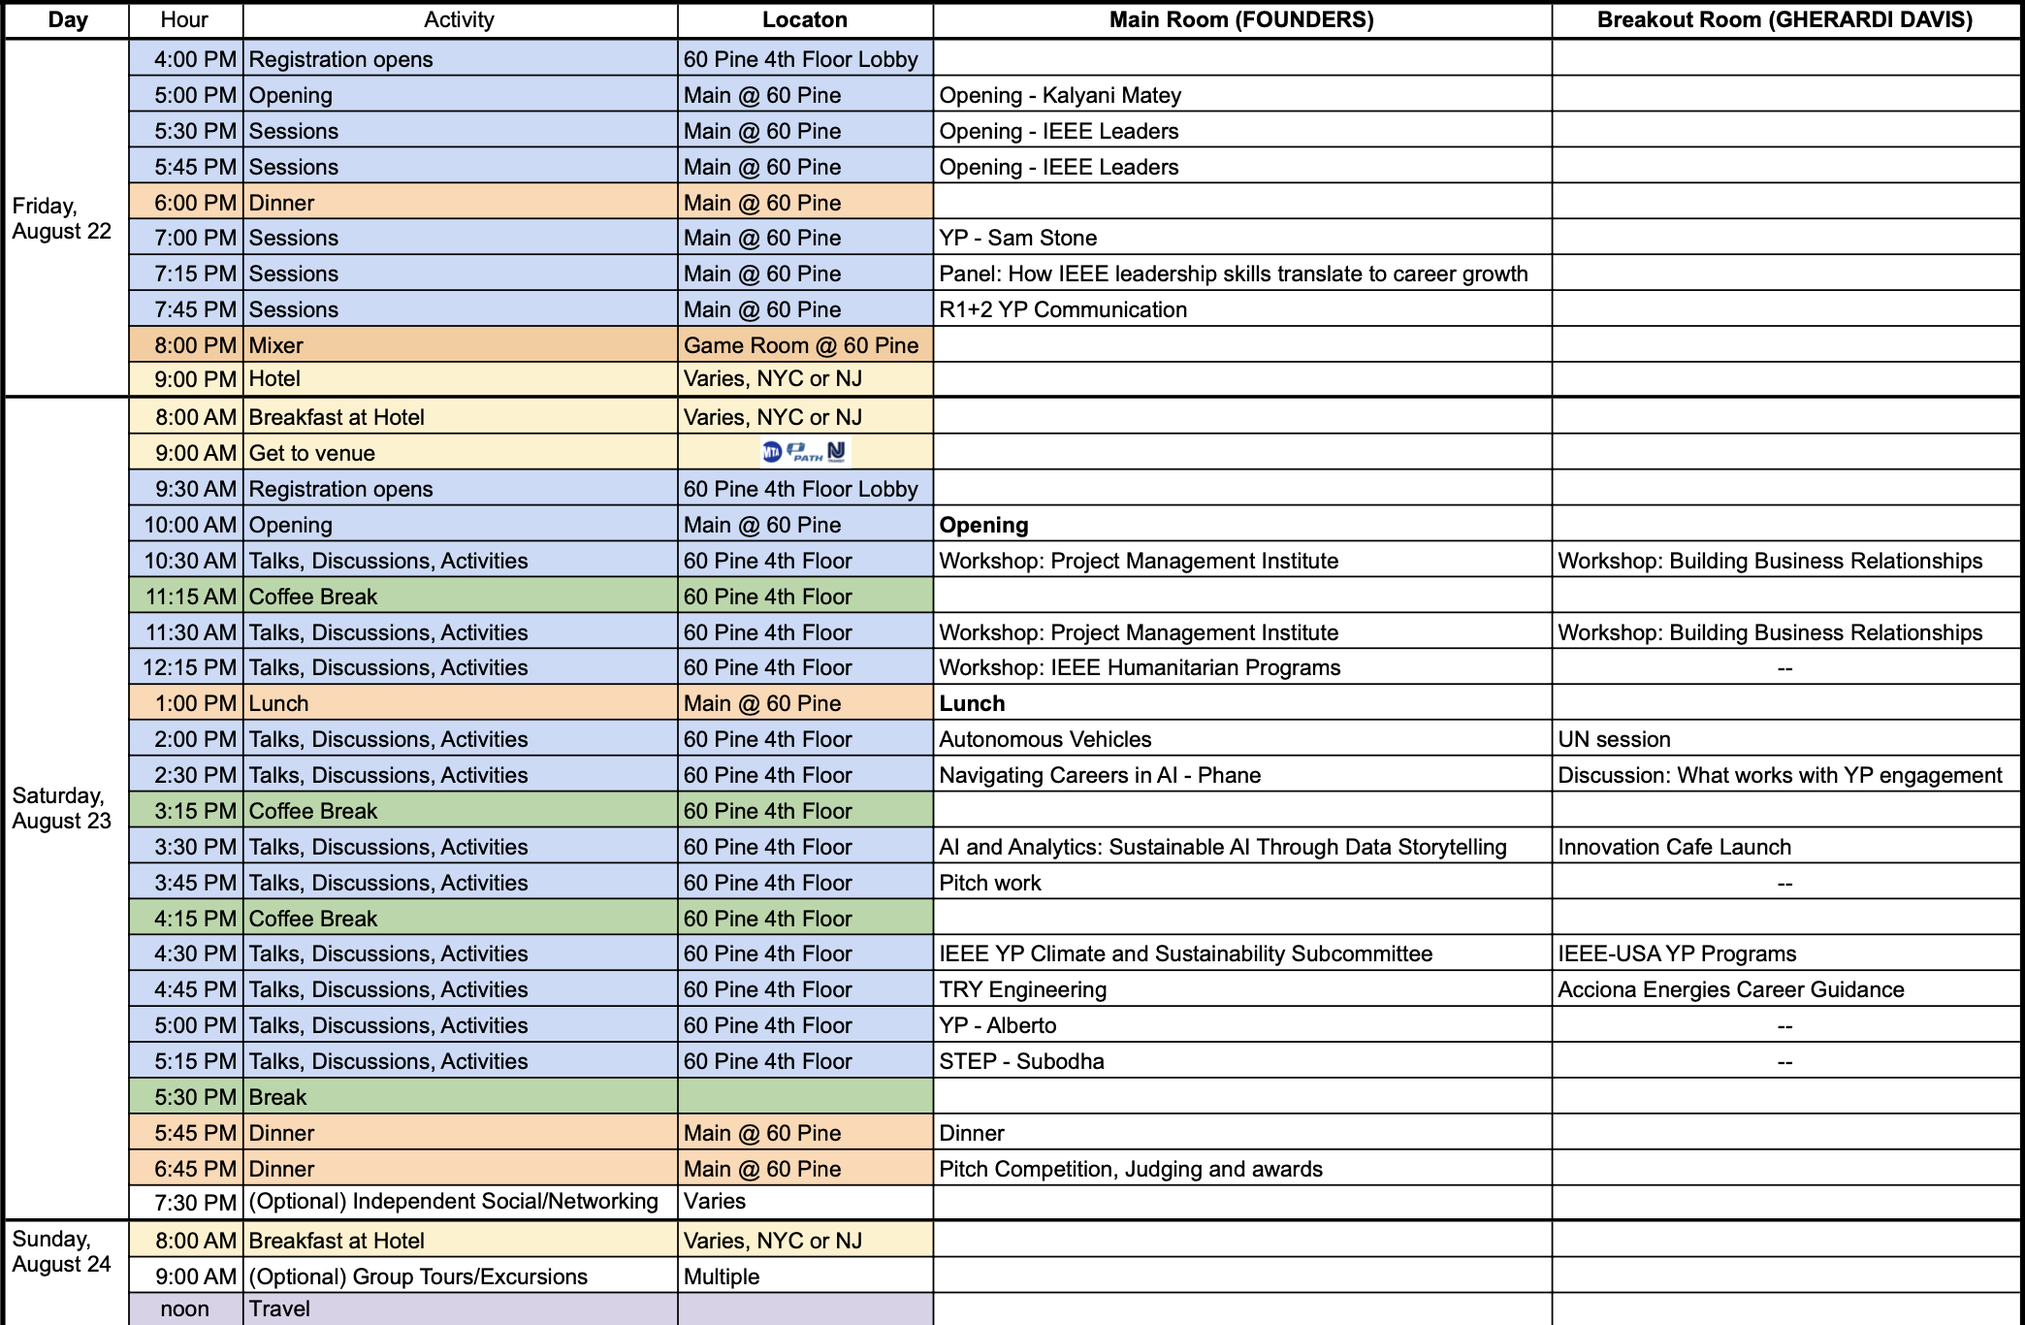
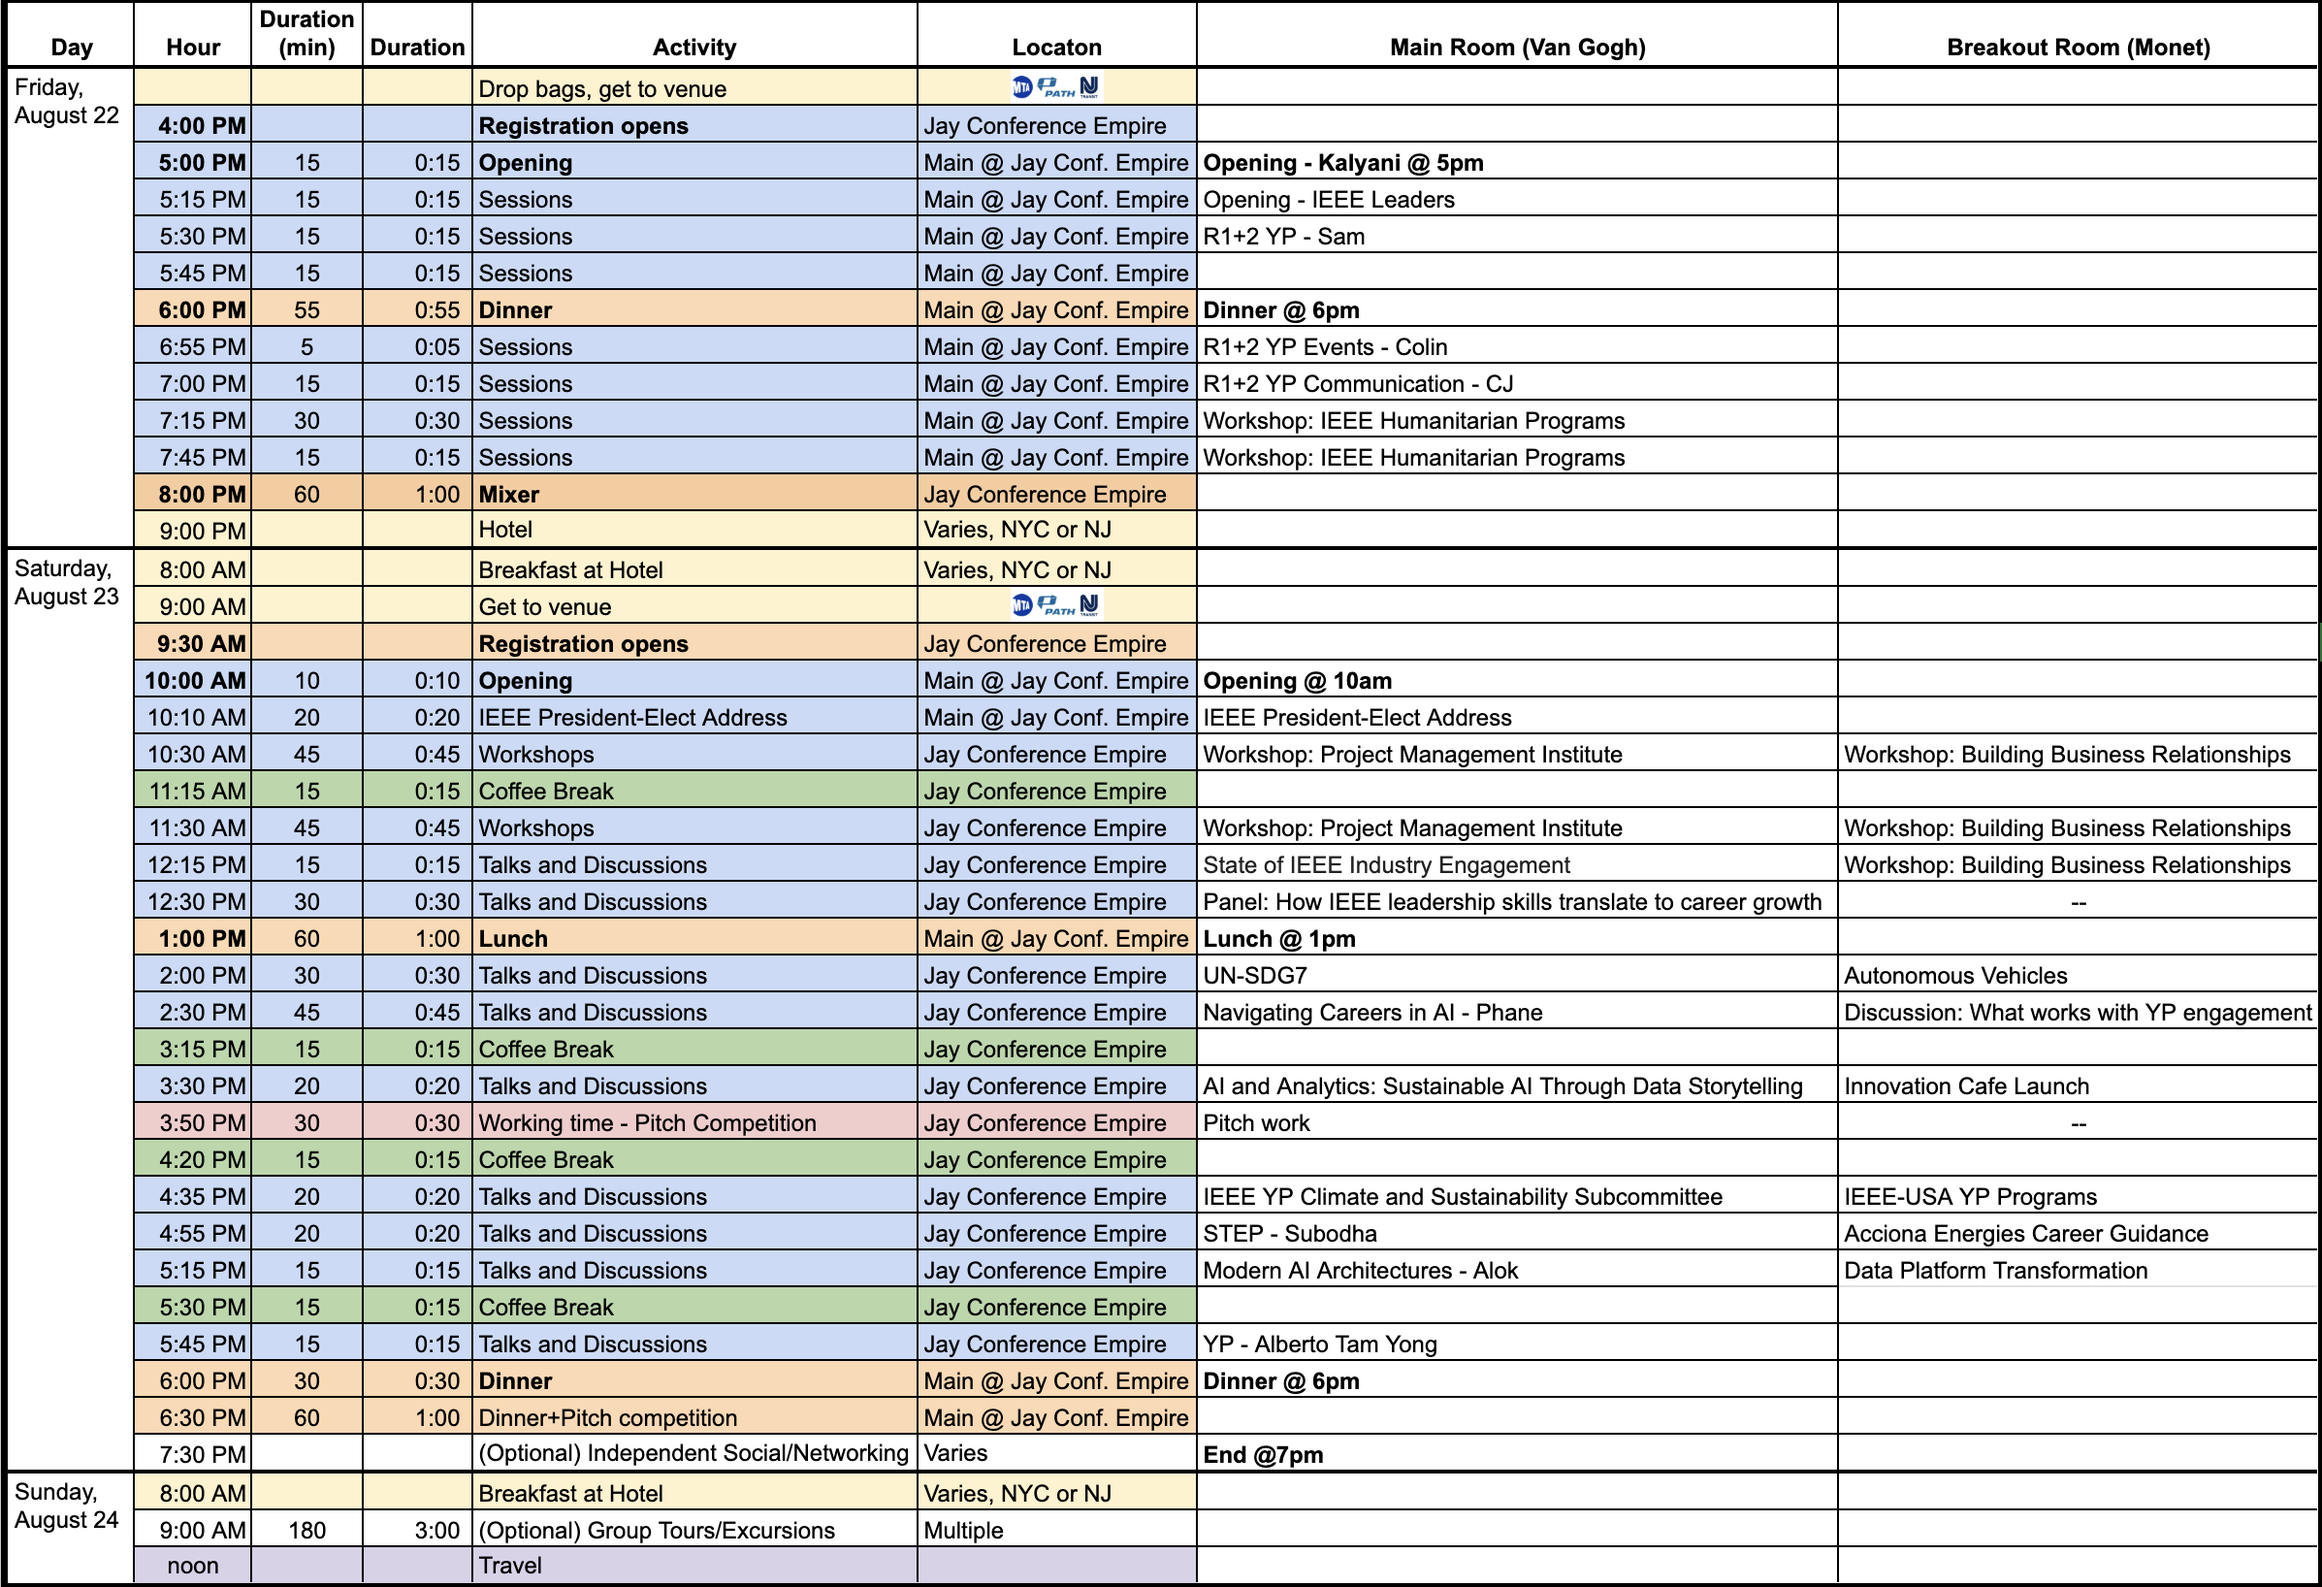
update schedule

diff --git a/schedule.html b/schedule.html
@@ -56,315 +56,15 @@
     <h2>(Optional) Sunday Tours</h2>
     Details of the optional Sunday tours will be announced at the event. 
   <h2>Schedule</h2>
-    <div class="table-scroll">
-    <table role="table" aria-label="Summit schedule">
-      <colgroup>
-        <col /><col /><col /><col /><col /><col />
-      </colgroup>
-      <thead>
-        <tr>
-          <th scope="col">Day</th>
-          <th scope="col">Hour</th>
-          <th scope="col">Duration</th>
-          <th scope="col">Activity</th>
-          <th scope="col">Main Room</th>
-          <th scope="col">Breakout Room</th>
-        </tr>
-      </thead>
-      <tbody>
-  
-        <!-- ===== Friday, August 22 ===== -->
-        <tr>
-          <th scope="rowgroup" class="day" rowspan="11">Friday,<br>August 22</th>
-          <td><span class="time"></span></td>
-          <td></td>
-          <td>Drop bags, get to venue</td>
-          <td></td><td></td>
-        </tr>
-  
-        <tr class="section">
-          <td><span class="time">4:00 PM</span></td>
-          <td><span class="dur">—</span></td>
-          <td>Registration opens</td>
-          <td></td><td></td>
-        </tr>
-  
-        <tr class="section">
-          <td><span class="time">5:00 PM</span></td>
-          <td><span class="dur">0:30</span></td>
-          <td class="open">Opening</td>
-          <td>Opening – Kalyani</td>
-          <td></td>
-        </tr>
-  
-        <tr class="talks">
-          <td><span class="time">5:30 PM</span></td>
-          <td><span class="dur">0:15</span></td>
-          <td>Sessions</td>
-          <td>Opening – IEEE Leaders</td>
-          <td></td>
-        </tr>
-  
-        <tr class="talks">
-          <td><span class="time">5:45 PM</span></td>
-          <td><span class="dur">0:15</span></td>
-          <td>Sessions</td>
-          <td>Opening – IEEE Leaders</td>
-          <td></td>
-        </tr>
-  
-        <tr class="dinner">
-          <td><span class="time">6:00 PM</span></td>
-          <td><span class="dur">1:00</span></td>
-          <td>Gala Dinner</td>
-          <td>Gala Dinner</td>
-          <td></td>
-        </tr>
-  
-        <tr class="talks">
-          <td><span class="time">7:00 PM</span></td>
-          <td><span class="dur">0:15</span></td>
-          <td>Sessions</td>
-          <td>YP – Sam</td>
-          <td></td>
-        </tr>
-  
-        <tr class="talks">
-          <td><span class="time">7:15 PM</span></td>
-          <td><span class="dur">0:30</span></td>
-          <td>Sessions</td>
-          <td>Panel: How IEEE leadership skills translate to career growth</td>
-          <td></td>
-        </tr>
-  
-        <tr class="talks">
-          <td><span class="time">7:45 PM</span></td>
-          <td><span class="dur">0:15</span></td>
-          <td>Sessions</td>
-          <td>R1+2 YP Communication</td>
-          <td></td>
-        </tr>
-  
-        <tr class="mixer">
-          <td><span class="time">8:00 PM</span></td>
-          <td><span class="dur">1:00</span></td>
-          <td>Mixer</td>
-          <td></td><td></td>
-        </tr>
-  
-        <tr class="hotel">
-          <td><span class="time">9:00 PM</span></td>
-          <td></td>
-          <td>Hotel</td>
-          <td></td><td></td>
-        </tr>
-  
-        <!-- ===== Saturday, August 23 ===== -->
-        <tr>
-          <th scope="rowgroup" class="day" rowspan="24">Saturday,<br>August 23</th>
-          <td><span class="time">8:00 AM</span></td>
-          <td></td>
-          <td class="breakfast">Breakfast at Hotel</td>
-          <td></td><td></td>
-        </tr>
-  
-        <tr>
-          <td><span class="time">9:00 AM</span></td>
-          <td></td>
-          <td>Get to venue</td>
-          <td></td><td></td>
-        </tr>
-  
-        <tr class="section">
-          <td><span class="time">9:30 AM</span></td>
-          <td></td>
-          <td>Registration opens</td>
-          <td></td><td></td>
-        </tr>
-  
-        <tr class="section">
-          <td><span class="time">10:00 AM</span></td>
-          <td><span class="dur">0:10</span></td>
-          <td class="open">Opening</td>
-          <td class="">Opening</td>
-          <td></td>
-        </tr>
-
-        <tr class="talks">
-          <td><span class="time">10:10 AM</span></td>
-          <td><span class="dur">0:20</span></td>
-          <td>Talks, Discussions, Activities</td>
-          <td>IEEE President-Elect Address</td>
-          <td></td>
-        </tr>
-  
-        <tr class="talks">
-          <td><span class="time">10:30 AM</span></td>
-          <td><span class="dur">0:45</span></td>
-          <td>Talks, Discussions, Activities</td>
-          <td>Workshop: Project Management Institute</td>
-          <td>Workshop: Building Business Relationships</td>
-        </tr>
-  
-        <tr class="break">
-          <td><span class="time">11:15 AM</span></td>
-          <td><span class="dur">0:15</span></td>
-          <td>Coffee Break</td>
-          <td></td><td></td>
-        </tr>
-  
-        <tr class="talks">
-          <td><span class="time">11:30 AM</span></td>
-          <td><span class="dur">0:45</span></td>
-          <td>Talks, Discussions, Activities</td>
-          <td>Workshop: Project Management Institute</td>
-          <td>Workshop: Building Business Relationships</td>
-        </tr>
-  
-        <tr class="talks">
-          <td><span class="time">12:15 PM</span></td>
-          <td><span class="dur">0:45</span></td>
-          <td>Talks, Discussions, Activities</td>
-          <td>Workshop: IEEE Humanitarian Programs</td>
-          <td>—</td>
-        </tr>
-  
-        <tr class="lunch">
-          <td><span class="time">1:00 PM</span></td>
-          <td><span class="dur">1:00</span></td>
-          <td>Lunch</td>
-          <td>Lunch</td>
-          <td></td>
-        </tr>
-  
-        <tr class="talks">
-          <td><span class="time">2:00 PM</span></td>
-          <td><span class="dur">0:30</span></td>
-          <td>Talks, Discussions, Activities</td>
-          <td>Autonomous Vehicles</td>
-          <td>UN session</td>
-        </tr>
-  
-        <tr class="talks">
-          <td><span class="time">2:30 PM</span></td>
-          <td><span class="dur">0:45</span></td>
-          <td>Talks, Discussions, Activities</td>
-          <td>Navigating Careers in AI – Phane</td>
-          <td>Discussion: What works with YP engagement</td>
-        </tr>
-  
-        <tr class="break">
-          <td><span class="time">3:15 PM</span></td>
-          <td><span class="dur">0:15</span></td>
-          <td>Coffee Break</td>
-          <td></td><td></td>
-        </tr>
-  
-        <tr class="talks">
-          <td><span class="time">3:30 PM</span></td>
-          <td><span class="dur">0:15</span></td>
-          <td>Talks, Discussions, Activities</td>
-          <td>AI and Analytics: Sustainable AI Through Data Storytelling</td>
-          <td>Innovation Cafe Launch</td>
-        </tr>
-  
-        <tr class="talks">
-          <td><span class="time">3:45 PM</span></td>
-          <td><span class="dur">0:30</span></td>
-          <td>Talks, Discussions, Activities</td>
-          <td>Pitch work</td>
-          <td>—</td>
-        </tr>
-  
-        <tr class="break">
-          <td><span class="time">4:15 PM</span></td>
-          <td><span class="dur">0:15</span></td>
-          <td>Coffee Break</td>
-          <td></td><td></td>
-        </tr>
-  
-        <tr class="talks">
-          <td><span class="time">4:30 PM</span></td>
-          <td><span class="dur">0:15</span></td>
-          <td>Talks, Discussions, Activities</td>
-          <td>IEEE YP Climate and Sustainability Subcommittee</td>
-          <td>IEEE-USA YP Programs</td>
-        </tr>
-  
-        <tr class="talks">
-          <td><span class="time">4:45 PM</span></td>
-          <td><span class="dur">0:15</span></td>
-          <td>Talks, Discussions, Activities</td>
-          <td>TRY Engineering</td>
-          <td>Acciona Energies Career Guidance</td>
-        </tr>
-  
-        <tr class="talks">
-          <td><span class="time">5:00 PM</span></td>
-          <td><span class="dur">0:15</span></td>
-          <td>Talks, Discussions, Activities</td>
-          <td>YP – Alberto</td>
-          <td>State of IEEE Industry Engagement</td>
-        </tr>
-  
-        <tr class="talks">
-          <td><span class="time">5:15 PM</span></td>
-          <td><span class="dur">0:15</span></td>
-          <td>Talks, Discussions, Activities</td>
-          <td>STEP – Subodha</td>
-          <td>—</td>
-        </tr>
-  
-        <tr class="break">
-          <td><span class="time">5:30 PM</span></td>
-          <td><span class="dur">0:15</span></td>
-          <td>Break</td>
-          <td></td><td></td>
-        </tr>
-  
-        <tr class="dinner">
-          <td><span class="time">5:45 PM</span></td>
-          <td><span class="dur">1:00</span></td>
-          <td>Dinner</td>
-          <td>Dinner</td>
-          <td></td>
-        </tr>
-  
-        <tr class="talks">
-          <td><span class="time">6:45 PM</span></td>
-          <td><span class="dur">0:45</span></td>
-          <td>Dinner</td>
-          <td>Pitch Competition, Judging and awards</td>
-          <td></td>
-        </tr>
-
-        <tr class="optional">
-            <td><span class="time">7:30 PM</span></td>
-            <td><span class="dur"> - </span></td>
-            <td>(Optional) Independent Social/Networking</td>
-            <td></td><td></td>
-          </tr>
-  
-        <!-- ===== Sunday, August 24 ===== -->
-        <tr>
-          <th scope="rowgroup" class="day" rowspan="2">Sunday,<br>August 24</th>
-          <td><span class="time">8:00 AM</span></td>
-          <td></td>
-          <td>Breakfast at Hotel</td>
-          <td></td><td></td>
-        </tr>
-  
-        <tr class="optional">
-          <td><span class="time">9:00 AM – noon</span></td>
-          <td><span class="dur">~3:00</span></td>
-          <td>(Optional) Group Tours/Excursions</td>
-          <td></td><td></td>
-        </tr>
-  
-      </tbody>
-    </table>
-    </div>
-  </div>
+  <img
+  class="floorplan-img"
+  src="resources/schedule.png"
+  alt="Schedule"
+  width="1600"
+  height="900"
+  loading="lazy"
+  decoding="async"
+/>
 
 <footer>
     &copy; 2025 IEEE Young Professionals Summit<br>
